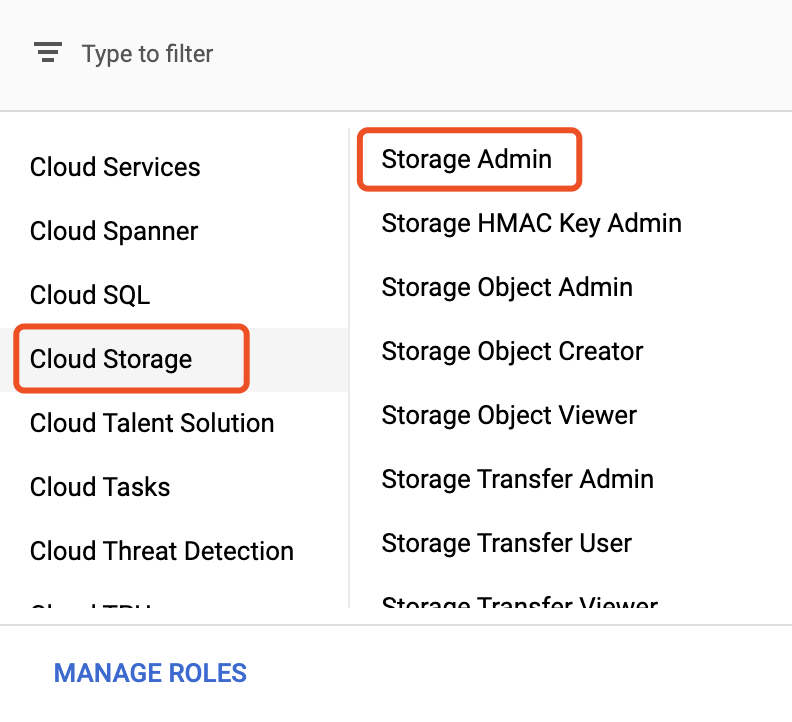
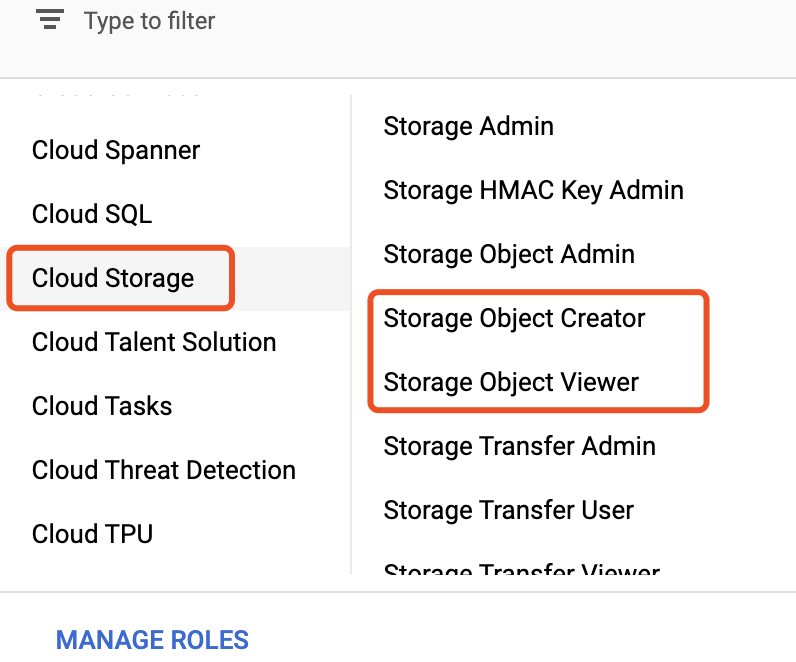
Update GCS doc (#104)
* update gcs doc

* update

* Apply suggestions from code review

diff --git a/offloaders/gcs/2.5.1/gcs.md b/offloaders/gcs/2.5.1/gcs.md
@@ -1,13 +1,13 @@
 ---
-description: Offload data from BookKeeper to GCS
-author: ["StreamNative"]
-contributors: ["StreamNative"]
+description: Use GCS offloader with Pulsar
+author: ["ASF"]
+contributors: ["ASF"]
 language: Java
 document:
 source: "https://github.com/apache/pulsar/tree/master/tiered-storage/jcloud"
 license: Apache License 2.0
 license_link: "https://www.apache.org/licenses/LICENSE-2.0"
-tags: ["GCS", "Offload", "Pulsar"]
+tags: ["GCS", "Offloader", "Pulsar"]
 alias: GCS offloader
 features: ["Offload data from BookKeeper to GCS"]
 icon: "/images/offloaders/gcs/gcs-logo.png"
@@ -42,19 +42,73 @@ In this way, on the one hand, tiered storage is much cheaper than the storage in
 
 Additionally, Pulsar is able to retain both historic and real-time data and provides a unified view as infinite event streams, which can be easily reprocessed or backloaded into new systems. You can integrate Pulsar with a unified data processing engine (such as Apache Flink or Apache Spark) to unlock many new use cases stemming from infinite data retention.
 
+# Installation
 
+Follow the steps below to install the GCS offloader.
+
+## Prerequisite
+
+- Filesystem: 2.4.2 or later versions
+  
+- Apache jclouds: 2.2.0 or later versions
+
+## Step
+
+1. Download Pulsar tarball using one of the following ways:
+
+   * download the Pulsar tarball from the [Apache mirror](https://archive.apache.org/dist/pulsar/pulsar-2.5.1/apache-pulsar-2.5.1-bin.tar.gz)
+
+   * download from the Pulsar [download page](https://pulsar.apache.org/download)
+
+   * use [wget](https://www.gnu.org/software/wget)
+
+     ```shell
+     wget https://archive.apache.org/dist/pulsar/pulsar-2.5.1/apache-pulsar-2.5.1-bin.tar.gz
+     ```
+
+2. Download and untar the Pulsar offloaders package. 
+
+    ```bash
+    wget https://downloads.apache.org/pulsar/pulsar-2.5.1/apache-pulsar-offloaders-2.5.1-bin.tar.gz
+
+    tar xvfz apache-pulsar-offloaders-2.5.1-bin.tar.gz
+    ```
+
+    > #### Note
+    >
+    > * If you are running Pulsar in a bare metal cluster, make sure that `offloaders` tarball is unzipped in every broker's Pulsar directory.
+    > 
+    > * If you are running Pulsar in Docker or deploying Pulsar using a Docker image (such as K8S and DCOS), you can use the `apachepulsar/pulsar-all` image instead of the `apachepulsar/pulsar` image. `apachepulsar/pulsar-all` image has already bundled tiered storage offloaders.
+
+3. Copy the Pulsar offloaders as `offloaders` in the Pulsar directory.
+
+    ```
+    mv apache-pulsar-offloaders-2.5.1/offloaders apache-pulsar-2.5.1/offloaders
+
+    ls offloaders
+    ```
+
+    **Output**
+
+    As shown in the output, Pulsar uses [Apache jclouds](https://jclouds.apache.org) to support GCS and AWS S3 for long term storage. 
+
+
+    ```
+    tiered-storage-file-system-2.5.1.nar
+    tiered-storage-jcloud-2.5.1.nar
+    ```
 
 # Configuration
 
 > #### Note
 > 
-> Before offloading data from BookKeeper to GCS, you need to configure some properties of the GCS driver. 
+> Before offloading data from BookKeeper to GCS, you need to configure some properties of the GCS offloader driver. 
 
-Besides, you can also configure the GCS to run automatically or trigger it manually.
+Besides, you can also configure the GCS offloader to run automatically or trigger it manually.
 
-## Configure GCS driver
+## Configure GCS offloader driver
 
-You can configure GCS driver in the configuration file `broker.conf`.
+You can configure GCS offloader driver in the configuration file `broker.conf`.
 
 - **Required** configurations are as below.
 
@@ -151,7 +205,7 @@ Configuration|Description
 `gcsManagedLedgerOffloadReadBufferSizeInBytes`|Block size for each individual read when reading back data from GCS.<br><br>The **default** value is 1 MB.
 `gcsManagedLedgerOffloadMaxBlockSizeInBytes`|Maximum size of a "part" sent during a multipart upload to GCS. <br><br>It **can not** be smaller than 5 MB. <br><br>The **default** value is 64 MB.
 
-## Configure GCS to run automatically
+## Configure GCS offloader to run automatically
 
 Namespace policy can be configured to offload data automatically once a threshold is reached. The threshold is based on the size of data that a topic has stored on a Pulsar cluster. Once the topic reaches the threshold, an offload operation is triggered automatically. 
 
@@ -166,7 +220,7 @@ You can configure the threshold size using CLI tools, such as [pulsarctl](https:
 
 ### Example
 
-This example sets the GCS threshold size to 10 MB using pulsarctl.
+This example sets the GCS offloader threshold size to 10 MB using pulsarctl.
 
 ```bash
 bin/pulsarctl namespaces set-offload-threshold --size 10M my-tenant/my-namespace
@@ -176,9 +230,9 @@ bin/pulsarctl namespaces set-offload-threshold --size 10M my-tenant/my-namespace
 >
 > For more information about the `pulsarctl namespaces set-offload-threshold options` command, including flags, descriptions, default values, and shorthands, see [here](https://streamnative.io/docs/pulsarctl/v0.4.0/#-em-set-offload-threshold-em-). 
 
-## Configure GCS to run manually
+## Configure GCS offloader to run manually
 
-For individual topics, you can trigger GCS manually using the following methods:
+For individual topics, you can trigger GCS offloader manually using the following methods:
 
 - Use REST endpoint 
 
@@ -188,7 +242,7 @@ For individual topics, you can trigger GCS manually using the following methods:
 
 ### Example
 
-- This example triggers GCS to run manually using pulsarctl with the command `pulsarctl topic offload (topic-name) (threshold)`.
+- This example triggers GCS offloader to run manually using pulsarctl with the command `pulsarctl topic offload (topic-name) (threshold)`.
 
     ```bash
     bin/pulsarctl topic offload persistent://my-tenant/my-namespace/topic1 10M
@@ -204,7 +258,7 @@ For individual topics, you can trigger GCS manually using the following methods:
     >
     > For more information about the `pulsarctl topic offload options` command, including flags, descriptions, default values, and shorthands, see [here](https://streamnative.io/docs/pulsarctl/v0.4.0/#-em-offload-em-). 
 
-- This example checks GCS status using pulsarctl with the command `pulsarctl topic offload-status options`.
+- This example checks GCS offloader status using pulsarctl with the command `pulsarctl topic offload-status options`.
 
     ```bash
     bin/pulsarctl topic offload-status persistent://my-tenant/my-namespace/topic1
@@ -251,9 +305,9 @@ For individual topics, you can trigger GCS manually using the following methods:
 
 This tutorial provides step-by-step instructions on how to use GCS with Pulsar.
 
-## Step 1: configure GCS driver
+## Step 1: configure GCS offloader driver
 
-As indicated in the [configuration chapter](#configuration), before using GCS offload, you need to configure some properties for the GCS offload driver. This tutorial assumes that you have configured the GCS offload driver in `standalone.conf` as below and run Pulsar in **standalone** mode.
+As indicated in the [configuration chapter](#configuration) before using the GCS offloader, you need to configure some properties for the GCS offloader driver. This tutorial assumes that you have configured the GCS offloader driver in `standalone.conf` as below and run Pulsar in **standalone** mode.
 
 ```conf
 managedLedgerOffloadDriver=google-cloud-storage
@@ -279,17 +333,21 @@ managedLedgerMaxEntriesPerLedger=5000
 
 2. To create a GCS bucket, click **Browser** > **CREATE BUCKET**.
 
+    > #### Note
+    > 
+    > To ensure broker can access the bucket, you need to assign **Storage Object Creator** and **Storage Object Viewer** roles to your service account. For how to assign roles to your service account, see [Step 4: grant access to GCS service account](#step-4-grant-access-to-gcs-service-account).
+
     ![](/images/offloaders/gcs/create-bucket.png)
 
 3. Name your bucket. 
 
-    The bucket name should be the same as the value of `gcsManagedLedgerOffloadBucket` that you configured in [Step 1](#step-1).
+    The bucket name should be the same as the value of `gcsManagedLedgerOffloadBucket` that you configured in [Step 1: configure GCS offloader driver](#step-1-configure-gcs-offloader-driver).
 
-![](/images/offloaders/gcs/bucket-name.png)
+    ![](/images/offloaders/gcs/bucket-name.png)
 
 4. Set your bucket region. 
 
-    The bucket region should be the same as the value of `gcsManagedLedgerOffloadRegion` that you configured in [Step 1](#step-1).
+    The bucket region should be the same as the value of `gcsManagedLedgerOffloadRegion` that you configured in [Step 1: configure GCS offloader driver](#step-1-configure-gcs-offloader-driver).
 
     ![](/images/offloaders/gcs/bucket-range.png)
 
@@ -320,7 +378,7 @@ managedLedgerMaxEntriesPerLedger=5000
 
 5. Grant privilege to your service account.
 
-	This tutorial skips this task here and completes it in [Step 4](#step-4). 
+	This tutorial skips this task here and completes it in [Step 4: grant access to GCS service account](#step-4-grant-access-to-gcs-service-account). 
     
     Click **Continue**.
 
@@ -348,15 +406,15 @@ managedLedgerMaxEntriesPerLedger=5000
 
     ![](/images/offloaders/gcs/add-1.png)
 
-3. Assign **Owner** and **Storage Admin** roles to your service account.
-
-    ![](/images/offloaders/gcs/select-1.png)
+3. Assign **Storage Object Creator** and **Storage Object Viewer** roles to your service account.
 
     ![](/images/offloaders/gcs/select-2.png)
 
 4. Click **Save**.
 
 ## Step 5: offload data from BookKeeper to GCS
+
+Execute the following commands in the repository where you download Pulsar tarball. For example, `~/path/to/apache-pulsar-2.5.1`.
 
 1. Start Pulsar standalone.
 
@@ -383,7 +441,7 @@ managedLedgerMaxEntriesPerLedger=5000
 4. The offloading operation starts after a ledge rollover is trigged. To ensure offload data successfully, it is recommended that you wait until several ledge rollovers are triggered. In this case, you might need to wait for a second. You can check the ledge status using pulsar-admin.
  
     ```
-    ./bin/pulsar-admin topics stats-internal test-topic
+    ./bin/pulsarctl topics internal-stats test-topic
     ```
 
 	**Output**
@@ -423,7 +481,7 @@ managedLedgerMaxEntriesPerLedger=5000
 5. After ledger rollover, trigger the offloading operation manually.
 
     ```
-    bin/pulsarctl topic offload --size-threshold 10M public/default/test-topic
+    ./bin/pulsarctl topic offload --size-threshold 10M public/default/test-topic
     ```
 
     **Output**
@@ -435,7 +493,7 @@ managedLedgerMaxEntriesPerLedger=5000
 6. Check the offloading status.
 
 	```
-    bin/pulsarctl topic offload-status -w public/default/test-topic
+    ./bin/pulsarctl topic offload-status -w public/default/test-topic
     ```
 	
 	You might need to wait for a while until the offloading operation finishes.
